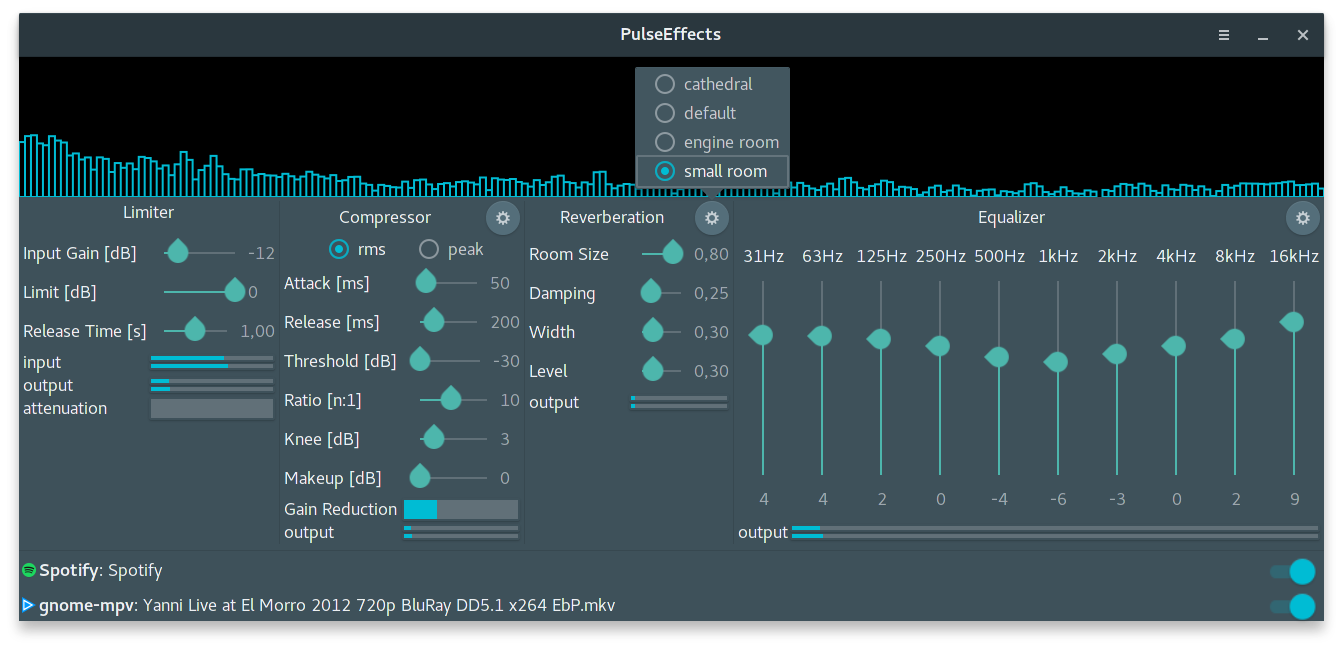
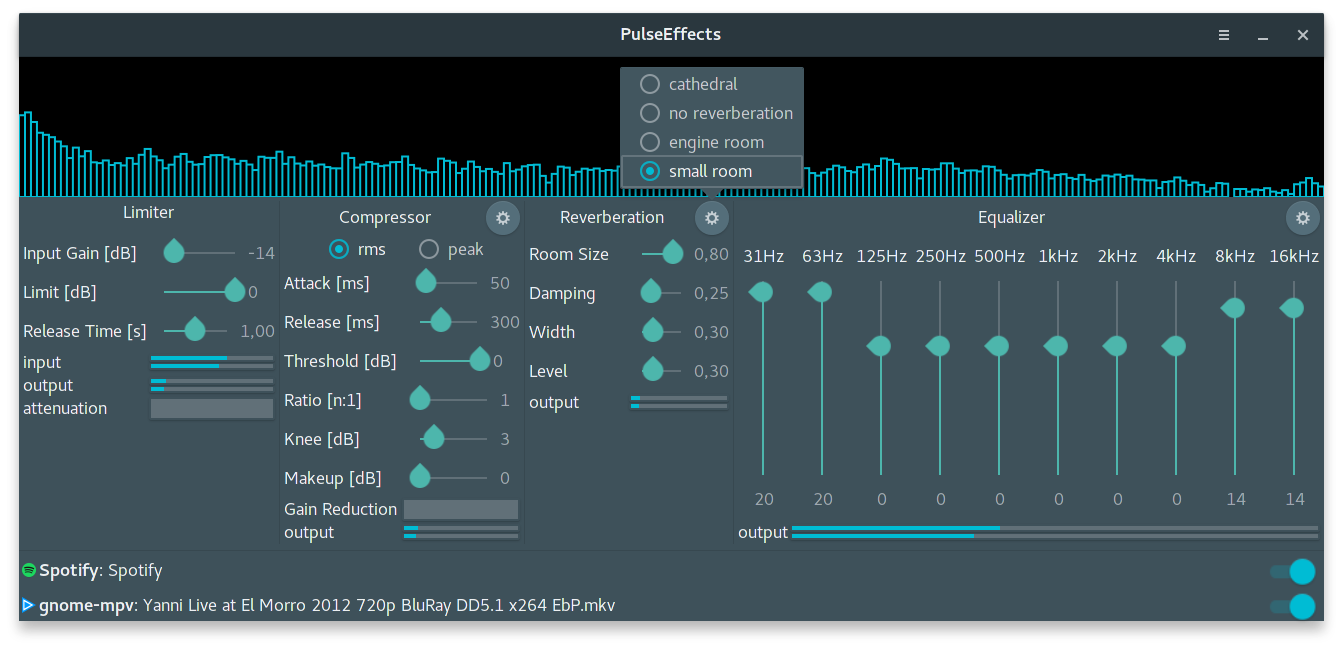
added a no reverberation preset. Fixed a bug where spectrum bars where duplicated

diff --git a/PulseEffects/application.py b/PulseEffects/application.py
@@ -596,8 +596,8 @@ class Application(Gtk.Application):
             if label == 'cathedral':
                 value = self.settings.get_value('reverb-cathedral')
                 self.apply_reverb_preset(value)
-            elif label == 'default':
-                value = self.settings.get_value('reverb-default')
+            elif label == 'no reverberation':
+                value = self.settings.get_value('reverb-no-reverberation')
                 self.apply_reverb_preset(value)
             elif label == 'engine room':
                 value = self.settings.get_value('reverb-engine-room')

diff --git a/PulseEffects/gst.py b/PulseEffects/gst.py
@@ -162,6 +162,8 @@ class GstEffects(GObject.GObject):
         self.rate = caps.get_structure(0).get_value("rate")
 
         if self.rate:
+            self.spectrum_freqs = []
+
             for i in range(self.spectrum_nbands):
                 freq = self.rate * (0.5 * i + 0.25) / self.spectrum_nbands
 

diff --git a/setup.py b/setup.py
@@ -1,7 +1,7 @@
 from setuptools import setup, find_packages
 
 setup(name='PulseEffects',
-      version='1.0.8',
+      version='1.0.9',
       description='Audio effects for Pulseaudio applications',
       url='https://github.com/wwmm/PulseEffects',
       author='wwmm',
